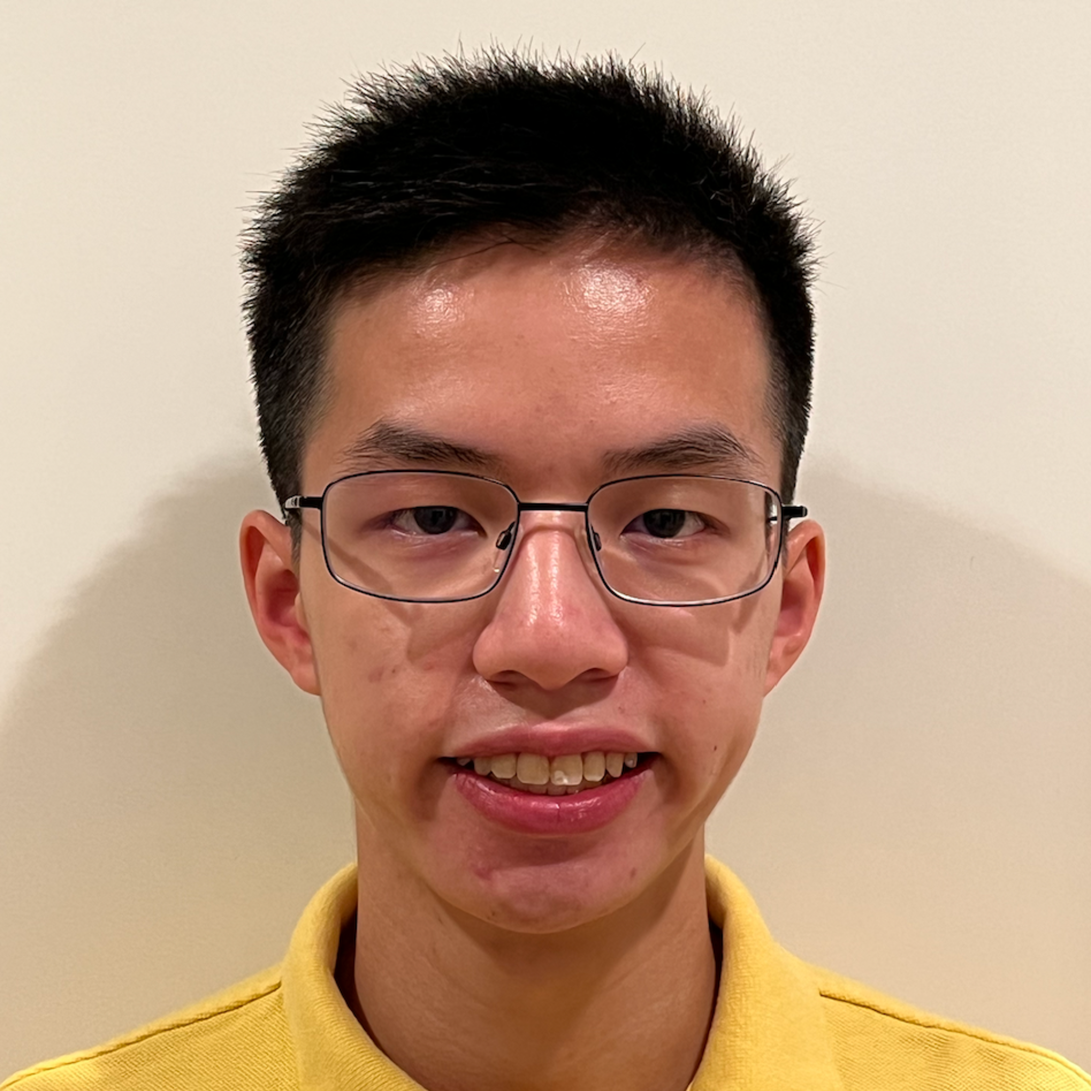
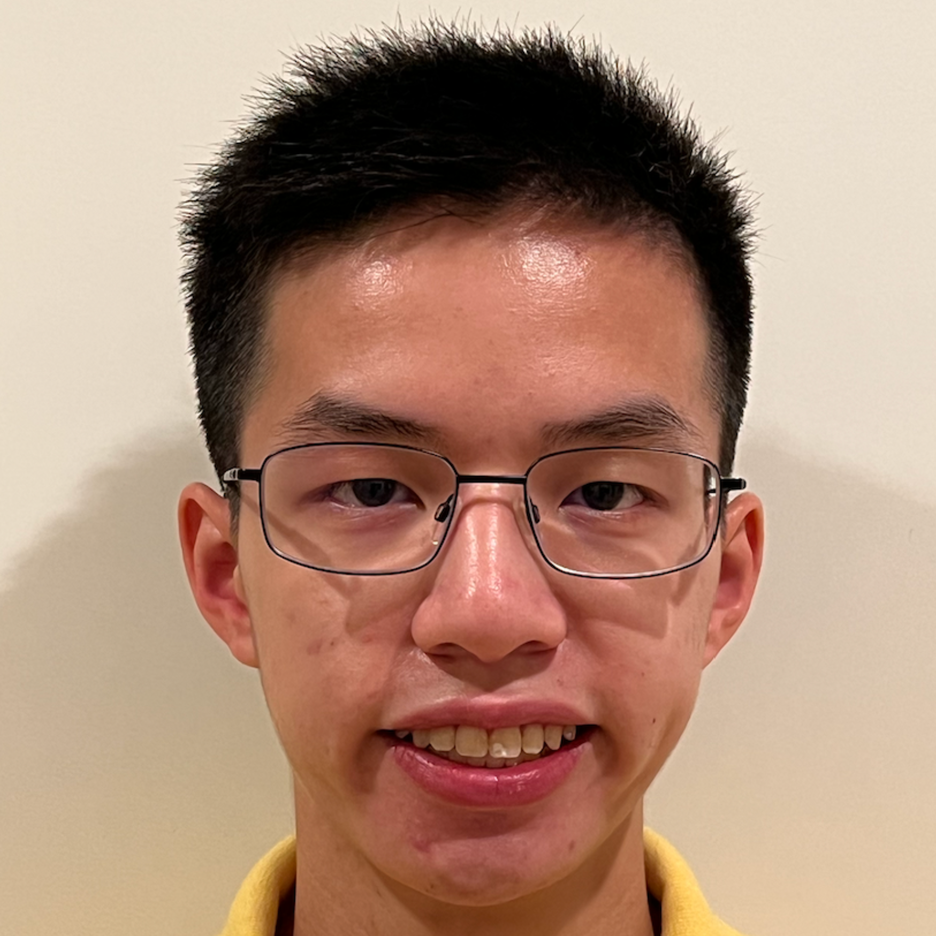
Update team pics & shorten About page

diff --git a/app/about/page.tsx b/app/about/page.tsx
@@ -9,11 +9,15 @@ export default function AboutPage() {
       <Image className="max-w-4xl"
         src="/promotional4.jpg"
        />
-      <div>
+      <div className="flex flex-col gap-8 justify-center">
         <h1 className={title({ size: "sm" })}>Mission and Vision</h1>
         <p>
-          We are building the "Google Maps for Ships," enabling safer and more efficient maritime navigation. Our fleet of autonomous ocean drones is designed to collect comprehensive wave data, transforming our ability to predict and model oceanic waves. By traveling to precise GPS coordinates and operating sustainably for weeks, these one-meter-long, wind-powered vessels measure key parameters like wave height, water temperature at multiple depths, wind speed/direction, and ocean depth.
-          Using a cutting-edge LoRa mesh network for communication, our drones minimize reliance on satellites while ensuring real-time data transmission. This groundbreaking system aims to revolutionize maritime safety, environmental research, and oceanic monitoring on a global scale.
+          <strong>Our Mission: </strong>
+          To revolutionize maritime navigation and oceanic monitoring through autonomous ocean drones that collect real-time wave data, enhancing safety, sustainability, and environmental research.
+        </p>
+        <p>
+          <strong>Our Vision: </strong>
+          To lead global maritime safety and ocean insights, empowering navigation with real-time data from our fleet of autonomous, wind-powered drones.
         </p>
       </div>
       <div>
@@ -23,8 +27,14 @@ export default function AboutPage() {
             src="/promotional5.jpg"
           />
           <div className="flex flex-col gap-8 justify-center">
-            <p>CaptAIn is equipped with a cutting-edge wave energy converter, allowing it to harness the power of ocean waves to generate the energy required for long-term operation. This sustainable energy solution enables the drones to travel autonomously for weeks without the need for frequent recharging, making them highly efficient and eco-friendly.</p>
-            <p>Additionally, they utilize a LoRa mesh network for real-time data transmission. This communication system reduces the reliance on satellite infrastructure, allowing the drones to share critical oceanic data efficiently over long distances. The LoRa network provides enhanced reliability and connectivity in remote ocean regions, ensuring continuous monitoring and seamless data collection from the fleet of drones.</p>
+            <p>
+              <strong>Wave Energy Converter: </strong>
+              Harnesses ocean waves to generate power, enabling long-term, autonomous operation without frequent recharging. Sustainable and eco-friendly.
+            </p>
+            <p>
+              <strong>LoRa Mesh Network: </strong>
+              Enables real-time data transmission over long distances, reducing reliance on satellites. Ensures reliable connectivity and continuous monitoring in remote ocean regions.
+            </p>
           </div>
         </div>
       </div>
@@ -32,8 +42,14 @@ export default function AboutPage() {
         <h1 className={title({ size: "sm" })}>Applications</h1>
         <div className="flex flex-row gap-6 items-center">
           <div className="flex flex-col gap-8 justify-center">
-            <p>CaptAIn offers a range of interconnected applications that enhance maritime safety, environmental research, oceanic monitoring, and shipping efficiency. By providing real-time data on wave height, wind, ocean temperature, and currents, these drones will help ships navigate safely, avoid hazardous conditions, and optimize routes. This not only reduces the risk of accidents but also contributes to more sustainable and efficient shipping practices.</p>
-            <p>These drones also prove to play a crucial role in environmental research and oceanic monitoring by providing continuous, real-time data on ocean health, climate change, and marine ecosystems. This will enable researchers and organizations to track important environmental shifts and better understand the impacts of climate change on marine life. Together, these capabilities contribute to a deeper understanding of the ocean's dynamic nature and drive meaningful environmental stewardship.</p>
+            <p>
+              <strong>Maritime Safety and Shipping Efficiency: </strong>
+              CaptAIn provides real-time data on wave height, wind, ocean temperature, and currents, helping ships navigate safely and optimize routes. This reduces accidents and supports sustainable, efficient shipping.
+            </p>
+            <p>
+              <strong>Environmental Research and Oceanic Monitoring: </strong>
+              The drones offer continuous data on ocean health, climate change, and marine ecosystems, aiding research on environmental shifts and climate impacts. This fosters environmental stewardship and deeper oceanic understanding.
+            </p>
           </div>
           <Image className="max-w-xs"
             src="/promotional6.png"
